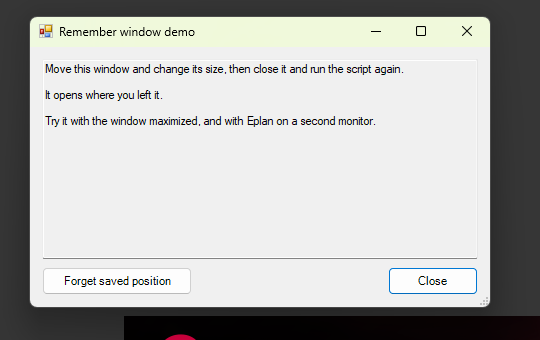
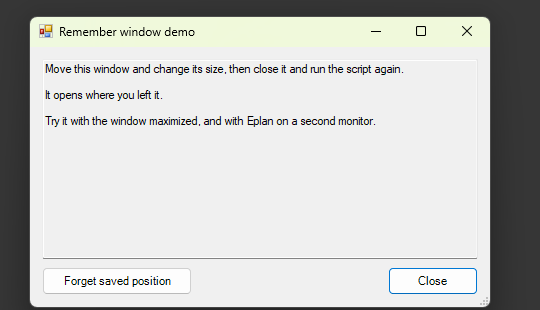
Update docs to match Eplan 2026 test results; fix data-model examples; tidy screenshots
- how-eplan-loads-scripts: C# 5 only, data model not referenced, implicit namespaces tested
- reaching-the-data-model: lock and ambiguous-match fixes, selection limit
- troubleshooting: new entries from the test run
- IDEAS and README: statuses, partly-tested examples (14, 18, 24)
- crop screenshots 06, 16, 21, 22 to the dialog only

diff --git a/IDEAS.md b/IDEAS.md
@@ -2,7 +2,7 @@
 
 A running list of examples that would help the community. Ideas are **descriptions only**: never copied code, customer data, or Eplan-owned material. Every example is written from scratch with generic data.
 
-Status: `idea` > `in progress` > `done`. Have an idea? Open an Issue using the "Example idea" form.
+Status: `idea` > `in progress` > `partly` (run in Eplan, some parts still unchecked) > `done`. Have an idea? Open an Issue using the "Example idea" form.
 
 ## Build order
 
@@ -21,17 +21,17 @@ Status: `idea` > `in progress` > `done`. Have an idea? Open an Issue using the "
 | 11 | done | Parts viewer with filter box | MasterData parts classes used directly; filtering a large list (read-only) | Intermediate |
 | 12 | done | "Please wait" window on its own thread | Keep a progress indicator moving while Eplan is busy, and close it safely | Advanced |
 | 13 | done | Dark-mode-safe controls | Custom check box, date field, drop-down and progress bar | Intermediate |
-| 14 | done | Selection explorer | Write the properties of the selected objects to a text file (read-only) | Intermediate |
+| 14 | partly | Selection explorer | Write the properties of the selected objects to a text file (read-only) | Intermediate |
 | 15 | done | Hand a value from one script to another | Short-lived value shared between two scripts, with a timestamp | Advanced |
 | 16 | done | Modern folder picker | The Explorer-style "choose a folder" window through COM | Advanced |
 | 17 | done | Export launcher (PDF) | The export action with a file name pattern; opens the folder | Intermediate |
-| 18 | done | Device list export | The devicelist action: CSV, XML or text, opened in Excel | Intermediate |
+| 18 | partly | Device list export | The devicelist action: CSV, XML or text, opened in Excel | Intermediate |
 | 19 | done | Renumber helper | A safe front end for the renumber action | Intermediate |
 | 20 | done | Timestamped backup | The backup action with a date-and-time name and a comment | Intermediate |
 | 21 | done | Favorites launcher | Searchable personal list of scripts and actions, saved as JSON | Intermediate |
 | 22 | done | Results window | A reusable report window with Copy and Save | Intermediate |
 | 23 | done | Bulk edit pages by filter | Preview, tick, confirm and apply; reading back after writing | Advanced |
-| 24 | done | CSV preview and device list import | A CSV parser, a preview grid, checks, then the devicelist import | Advanced |
+| 24 | partly | CSV preview and device list import | A CSV parser, a preview grid, checks, then the devicelist import | Advanced |
 | 25 | done | Settings finder (read-only) | Search Eplan's settings by name or description, with current values | Intermediate |
 | 26 | done | Back up first, then run | Backup, then a script or action only if the backup worked | Intermediate |
 
@@ -39,20 +39,20 @@ Status: `idea` > `in progress` > `done`. Have an idea? Open an Issue using the "
 
 | Status | Page | Notes |
 |--------|------|-------|
-| idea | Pitfalls and fixes | Short table in our own words: selections come back empty unless unlocked, reading an empty property throws, `EventHandler` is ambiguous inside Eplan, clicks below the last item of a list box can throw, don't swap grid cell types at run time. **Verify each item in Eplan 2026 before publishing.** |
-| draft | Reaching the data model (docs/reaching-the-data-model.md) | Written from Eplan's 2026 documentation and the draft examples. Update once the data-model examples have been run in Eplan |
-| idea | What Eplan adds to every script | Which namespaces Eplan adds and which names become ambiguous. Confirm by test, then document |
+| partly | Pitfalls and fixes (docs/troubleshooting.md) | Now covers the data model errors, silent compile failures, export file names and the selection limit. Still to test: empty property reads, list box clicks below the last item, swapping grid cell types |
+| done | Reaching the data model (docs/reaching-the-data-model.md) | Updated with what running examples 09, 10, 14 and 23 in Eplan 2026 showed |
+| done | What Eplan adds to every script (docs/how-eplan-loads-scripts.md) | Tested for `System.Windows.Forms`, `System.IO`, `EventHandler` and the C# version; the rest is listed as still to confirm |
 
 ## Verification to do in Eplan
 
 - Does `Settings.GetNumericSetting("USER.MF.GuiColorScheme", 0)` return 2 for light and 0 for automatic when run as a script? Confirmed in Eplan 2026: **1 = dark, 2 = light, 0 = automatic** (automatic resolved through Windows light mode). Still to confirm: automatic with Windows in dark mode. (Eplan's configuration files describe 0 = automatic, 1 = dark, 2 = light.)
-- Which namespaces does the script compiler add? (The compile-check assumes the application framework, base, GUI and scripting namespaces.)
-- Does the script compiler reference the data model and services assemblies? Eplan's 2026 documentation lists the default assemblies and does **not** include them, so the compile-check assumes **not**. Confirm with a one-line test script.
-- Is the application framework namespace usable directly from a script? Reports conflict, so test it.
-- Which C# language version does the script compiler accept? (The compile-check enforces C# 5.)
+- **Confirmed in Eplan 2026:** `System.Windows.Forms` is added to every script (a `MessageBox` compiled with no `using`); `System.IO` is not; a bare `EventHandler` does not compile when `using System;` is present (use `System.EventHandler`). Still to confirm: whether `System`, Base, Gui and the application framework namespaces are also added (the compile-check assumes they are).
+- **Confirmed in Eplan 2026:** the data model is **not** referenced; a script naming `Eplan.EplApi.DataModel.Project` directly does not compile, and reflection reaches it (examples 09, 10, 14, 23).
+- **Confirmed in Eplan 2026:** the application framework namespace is usable directly (`CommandLineInterpreter`, `ActionCallingContext`), as are `Newtonsoft.Json` and the MasterData parts classes.
+- **Confirmed in Eplan 2026:** C# 5 only. String interpolation, `?.` and `nameof` each stop a script from running; `var`, `out` on a separate declaration and LINQ work.
 - Ribbon example (05): the ribbon API takes icons as **SVG** (text, or a file path in some overloads) or an index of an existing icon, not as PNG files. The example reads an `.svg` file and passes its text. Confirmed in Eplan 2026: the buttons start their scripts (`ExecuteScript` with `ScriptFile`), and the remove script works. `[CallerFilePath]` did **not** give the script folder in Eplan 2026, so the example asks the user to select a file. Still to confirm: how the icons look on a dark and a light ribbon, whether the tab appears immediately or after a restart, what happens when the setup script is run twice.
 
-- **Draft examples 06 to 26** are not yet run in Eplan. Per example, confirm: it runs, the window looks right (light and dark), the main action works, and Cancel/close behave. Special attention: the reflection examples (09, 10, 14, 23: member names, selection, locking, writing and reading back), `$(PROJECTNAME)` in the action examples (17, 18, 20, 26), the action parameter spellings (`export`, `devicelist`, `renumber`, `backup`), parts database loading (11), and whether scripts share one AppDomain (15).
+- **Examples 06 to 26** were run in Eplan 2026 (Update 5) on 2026-11-07, on a copy of a demo project. Still open: 14 (drawing-page selection did not reach the script), 18 and 24 (the demo project had no device list data, so real contents and the import effect are unchecked), column sorting in 09, light-mode and second-monitor checks for 06 and 07, devices/terminals/cables in 19, and the other change types in 23. Findings from the run: the data-model helpers needed `LockSelectionByDefault` set to false and a property lookup that tolerates repeated names; the PDF export action in 2026 chooses its own file name, so example 17 renames the result.
 
 ## Where the newer ideas came from
 

diff --git a/docs/how-eplan-loads-scripts.md b/docs/how-eplan-loads-scripts.md
@@ -1,23 +1,37 @@
 # How Eplan loads scripts
 
-> This page records what has been **verified** in Eplan 2026.0.3. Items marked _to verify_ are working assumptions that will be confirmed and updated as examples are tested.
+> This page records what has been **verified** in Eplan 2026.0.3 (Update 5) by running small test scripts. Anything not yet tested is marked _to verify_.
 
 ## The basics
 
 - A script is a `.cs` source file. Eplan compiles it when you run or load it. There is no separate build or installer step. **Run** (File > Extras > Interfaces > Scripts) executes it once; **Load** registers it so it stays available, and Eplan registers loaded scripts again at the next start. See [How to run a script](running-scripts.md).
 - Eplan exposes its features to scripts through the public API assemblies in its `Bin` folder (for example `Eplan.EplApi.Baseu`, `Eplan.EplApi.AFu`, `Eplan.EplApi.Guiu`, `Eplan.EplApi.DataModelu`).
 - The 2026 API assemblies target **.NET Framework 4.8.1** (verified from the installs).
-- A script marks the method Eplan should run with the `[Start]` attribute. Other attributes let scripts register actions, menu items, or event handlers. The examples introduce each one when needed. _Exact attribute usage per example will be confirmed during testing._
+- A script marks the method Eplan should run with the `[Start]` attribute. Other attributes let scripts register actions, menu items, or event handlers. The examples introduce each one when needed. The `[Start]` method was confirmed in every example that was run.
 
 ## What a script can reference
 
 Eplan's 2026 documentation lists what scripts can use without extra references: `System`, `System.Drawing`, `System.Windows.Forms`, `System.Net.Http`, `System.IO.Compression.FileSystem`, `System.Xml.Linq`, `System.Xml`, `System.Core` and **Newtonsoft.Json**, plus the Eplan **Base**, **ApplicationFramework**, **Gui** and **MasterData** assemblies. The data model and services assemblies are not on the list, and extra references cannot be added from a script. Scripts that need the data model reach it by reflection: see [Reaching Eplan's data model](reaching-the-data-model.md).
 
-It is also reported that Eplan adds some of its own namespaces to every script, which can make a short name such as `EventHandler` ambiguous (error CS0104). Write `System.EventHandler` in full to avoid it. The local compile-check follows both rules, so the examples stay safe either way. The extra namespaces are still _to verify_ in Eplan.
+### Confirmed by test scripts in Eplan 2026
+
+| Question | Result |
+|----------|--------|
+| Can a script name a data model type such as `Eplan.EplApi.DataModel.Project` directly? | **No.** The script does not compile. Use reflection (see the guide above). The data model is nevertheless already loaded inside Eplan, so reflection finds it. |
+| Is the application framework namespace (`Eplan.EplApi.ApplicationFramework`, which holds `CommandLineInterpreter` and `ActionCallingContext`) usable directly? | **Yes.** Examples 17 to 20, 24, 26 and 19 use it. |
+| Does `Newtonsoft.Json` work directly? | **Yes** (examples 08, 21). |
+| Does the `MasterData` parts API work directly? | **Yes** (example 11). |
+| Is `System.Windows.Forms` added to every script? | **Yes.** `MessageBox.Show("x")` compiled with no `using` line for it. |
+| Is `System.IO` added to every script? | **No.** `Path.GetTempPath()` without `using System.IO;` did not compile. |
+| Is a bare `EventHandler` a problem when `using System;` is present? | **Yes, it did not compile**, while `System.EventHandler` written in full did. Eplan has its own `EventHandler` name. |
+
+The compile errors were seen as a script that did not run; the exact message text was not captured, so the two rows that say "did not compile" are based on the script not running while an identical script without that one change ran.
+
+The local compile-check still adds a longer list of namespaces than the two confirmed above. That keeps it on the cautious side for name clashes, but it can accept a script that is missing a `using` line Eplan needs. Add the `using` lines you need.
 
 ## Compiler and language version
 
-_To verify:_ which C# language version Eplan's script compiler accepts. Until confirmed, the examples use only C# 5 syntax (no string interpolation, no `?.`, no `out var`), which is accepted by any compiler Eplan could reasonably use. This page will be updated with the result.
+Eplan 2026 accepts **C# 5 syntax only**. Test scripts using string interpolation (`$"..."`), the null-conditional `?.` and `nameof` each failed to run, while the same script with a plain `out` variable declared on its own line, `var`, and `System.Linq` ran fine. Write C# 5. Those three features were tested one by one; other newer features (such as `out var` and expression-bodied members) were not tried individually, so keep avoiding them.
 
 ## Where scripts live
 

diff --git a/README.md b/README.md
@@ -36,21 +36,21 @@ Beginner examples explain the basic C# they use. Later examples cover data grids
 | 11 | [Parts viewer](examples/11-parts-viewer/) | Search the parts database as you type | Intermediate | Available |
 | 12 | [Please-wait window](examples/12-please-wait-window/) | Keep a moving window up while Eplan is busy | Advanced | Available |
 | 13 | [Dark-mode-safe controls](examples/13-dark-safe-controls/) | Date field, drop-down, check box and progress bar for dark mode | Intermediate | Available |
-| 14 | [Selection explorer](examples/14-selection-explorer/) | Write the properties of your selection to a text file | Intermediate | Available |
+| 14 | [Selection explorer](examples/14-selection-explorer/) | Write the properties of your selection to a text file | Intermediate | Available, partly tested |
 | 15 | [Hand a value between scripts](examples/15-hand-off-value/) | Pass a short-lived value from one script to another | Advanced | Available |
 | 16 | [Modern folder picker](examples/16-modern-folder-picker/) | The Explorer-style "choose a folder" window | Advanced | Available |
 | 17 | [Export launcher](examples/17-export-launcher/) | PDF export with a file name pattern | Intermediate | Available |
-| 18 | [Device list export](examples/18-device-list-export/) | CSV, XML or text, opened in Excel | Intermediate | Available |
+| 18 | [Device list export](examples/18-device-list-export/) | CSV, XML or text, opened in Excel | Intermediate | Available, partly tested |
 | 19 | [Renumber helper](examples/19-renumber-helper/) | A safe front end for the renumber action | Intermediate | Available |
 | 20 | [Timestamped backup](examples/20-timestamped-backup/) | A backup with the date and time in its name | Intermediate | Available |
 | 21 | [Favorites launcher](examples/21-favorites-launcher/) | A searchable list of your scripts and actions | Intermediate | Available |
 | 22 | [Results window](examples/22-results-window/) | One report window instead of many message boxes | Intermediate | Available |
 | 23 | [Bulk edit pages](examples/23-bulk-edit/) | Preview, then change many pages at once | Advanced | Available |
-| 24 | [CSV preview and import](examples/24-csv-device-import/) | Check a CSV file before importing it | Advanced | Available |
+| 24 | [CSV preview and import](examples/24-csv-device-import/) | Check a CSV file before importing it | Advanced | Available, partly tested |
 | 25 | [Settings finder](examples/25-settings-finder/) | Search Eplan's settings (read-only) | Intermediate | Available |
 | 26 | [Back up first, then run](examples/26-backup-then-run/) | A safety net in front of risky work | Intermediate | Available |
 
-**Draft** examples are written and compile-checked, but have not been run in Eplan yet. Try them on a copy of a project and tell us what you find. More ideas are in [IDEAS.md](IDEAS.md). Request one by opening an issue.
+Every example has been run in Eplan 2026 (Update 5), and examples 06 to 26 on a copy of a demo project; each example's README says exactly what was checked. Examples 14, 18 and 24 are only partly confirmed (see their READMEs), and some options inside the other examples have not been tried yet. Try them on a copy of a project and tell us what you find. More ideas are in [IDEAS.md](IDEAS.md). Request one by opening an issue.
 
 ## Quick start
 

diff --git a/CLAUDE.md b/CLAUDE.md
@@ -22,8 +22,8 @@ A free, public list of **original** C# script examples for Eplan Electric P8 202
 
 - Eplan 2026. Installed at `C:\Program Files\EPLAN\Platform\2026.0.3\Bin`. Every example must compile and work there, and future versions should keep working. Other versions are not tested and not mentioned.
 - .NET Framework 4.8.1 (the 2026 API targets it). Scripts are loaded by Eplan as `.cs` files and compiled at load time; there is no compiled DLL to distribute.
-- Eplan compiles scripts with its own compiler. Until verified, write **C# 5 compatible syntax**: no string interpolation (`$""`), no `?.`, no `out var`, no expression-bodied members, no `nameof`, no auto-property initializers. The compile-check enforces this with `LangVersion` 5.
-- The compile-check also mimics Eplan: it references only the Base, AF and Gui assemblies (**not** DataModel or HEServices, which reports say Eplan's script compiler does not reference), and it prepends the namespaces Eplan is believed to add, so ambiguous names such as `EventHandler` fail locally. These two assumptions are listed under "Verification to do in Eplan" in `IDEAS.md`. If an example needs the data model, reach it with reflection until that is verified, and say so in the example README.
+- Eplan compiles scripts with its own compiler, and **verified in Eplan 2026: it accepts C# 5 only** (string interpolation, `?.` and `nameof` each stop a script from running). Write C# 5: no string interpolation (`$""`), no `?.`, no `out var`, no expression-bodied members, no `nameof`, no auto-property initializers. The compile-check enforces this with `LangVersion` 5.
+- The compile-check also mimics Eplan: it references only the Base, AF and Gui assemblies (**not** DataModel or HEServices; **verified in Eplan 2026** that a script cannot name data model types directly), and it prepends namespaces so ambiguous names such as `EventHandler` fail locally. Verified: `System.Windows.Forms` is added by Eplan, `System.IO` is not, and a bare `EventHandler` does not compile. The other prepended namespaces are still assumptions (listed in `IDEAS.md`). If an example needs the data model, reach it with reflection (see `docs/reaching-the-data-model.md`) and say so in the example README.
 - Write `System.EventHandler` in full when you need it.
 - Give helper classes a unique prefix per example (for example `Theme...`, `Dialog...`). Eplan compiles each script alone, but the local compile-check builds all examples into one assembly, so two examples must not define the same type name. Record what was verified in `docs/how-eplan-loads-scripts.md`.
 

diff --git a/docs/reaching-the-data-model.md b/docs/reaching-the-data-model.md
@@ -52,4 +52,9 @@ The examples that need the data model (09, 10, 14 and 23) each carry a short hel
 
 ## What has and has not been confirmed
 
-The member names used by the examples (`Project.Pages`, `Project.ProjectName`, `Page.Name`, `Page.PageTypeName`, `Page.Properties`, `PagePropertyList.PAGE_NOMINATIOMN`, `UniversalPropertyList.ExistingIds` and `ExistingValues`, `SelectionSet.GetCurrentProject`) were checked against the installed 2026 assemblies. The helper classes were tested outside Eplan against stand-in objects of the same shape. **Running them inside Eplan is still to be done**, which is why those examples are marked Draft.
+The helpers were run inside Eplan 2026 (Update 5) by examples 09, 10, 14 and 23, on a copy of a demo project. Reading the project, its pages and their properties works, and so does changing a page description (example 23, confirmed by reading it back afterwards). Two things went wrong in the first drafts and are now fixed in all four examples:
+
+1. **The project could not be opened for reading.** `SelectionSet.GetCurrentProject` failed with "Failed to generate an object of the LockingStep class" until `LockSelectionByDefault` was set to `false` on the selection object first.
+2. **Reading the page description by name hit an "ambiguous match" error.** Eplan declares the same property name more than once on its property list classes, so asking .NET for one property by name fails. The helper now walks the list of properties itself and picks the one whose name matches.
+
+Also worth knowing: the member names were checked first against the installed 2026 assemblies (`Project.Pages`, `Project.ProjectName`, `Page.Name`, `Page.PageTypeName`, `Page.Properties`, `PagePropertyList.PAGE_NOMINATIOMN`, `UniversalPropertyList.ExistingIds` and `ExistingValues`, `SelectionSet.GetCurrentProject`) and all of them worked as listed. Not yet working: the **selection of objects on an open drawing page** did not reach the script (example 14 reported nothing selected after Select All on a page), while pages selected in the page navigator did. Other object types, such as devices, have not been tried.

diff --git a/docs/troubleshooting.md b/docs/troubleshooting.md
@@ -25,6 +25,22 @@
 
 - Save the file, then **run it again** in Eplan so it recompiles. If you registered the script with **Load**, unload it and load it again to be safe.
 
+## A script that uses the data model says "Exception has been thrown by the target of an invocation"
+
+That message only wraps the real one. Look at the inner exception, or show `ex.InnerException.Message`. Two real causes were found in Eplan 2026: "Failed to generate an object of the LockingStep class" (set `LockSelectionByDefault` to `false` before asking for the project) and "Ambiguous match found" (read properties by scanning the list instead of asking for one by name). See [Reaching the data model](reaching-the-data-model.md).
+
+## My script does not run and nothing is shown
+
+A script that does not compile can simply not run. Check the usual suspects: newer C# syntax (Eplan 2026 accepts C# 5 only), a missing `using System.IO;`, a bare `EventHandler` (write `System.EventHandler`), or a direct use of a data model type. [How Eplan loads scripts](how-eplan-loads-scripts.md) lists what was tested.
+
+## The export action ignored my file name
+
+In Eplan 2026 the PDF export action named the file itself (project name, date and time) whatever name was passed in. Example 17 finds the file the action just made and renames it. If you rely on a name, do the same.
+
+## "Nothing is selected" although I selected things
+
+Objects selected on an open drawing page did not reach a script in the tests (example 14). Pages selected in the page navigator did.
+
 ## Still stuck?
 
 Open an Issue with your Eplan version, what you did, and the exact error text. Please remove any customer or project data first.
